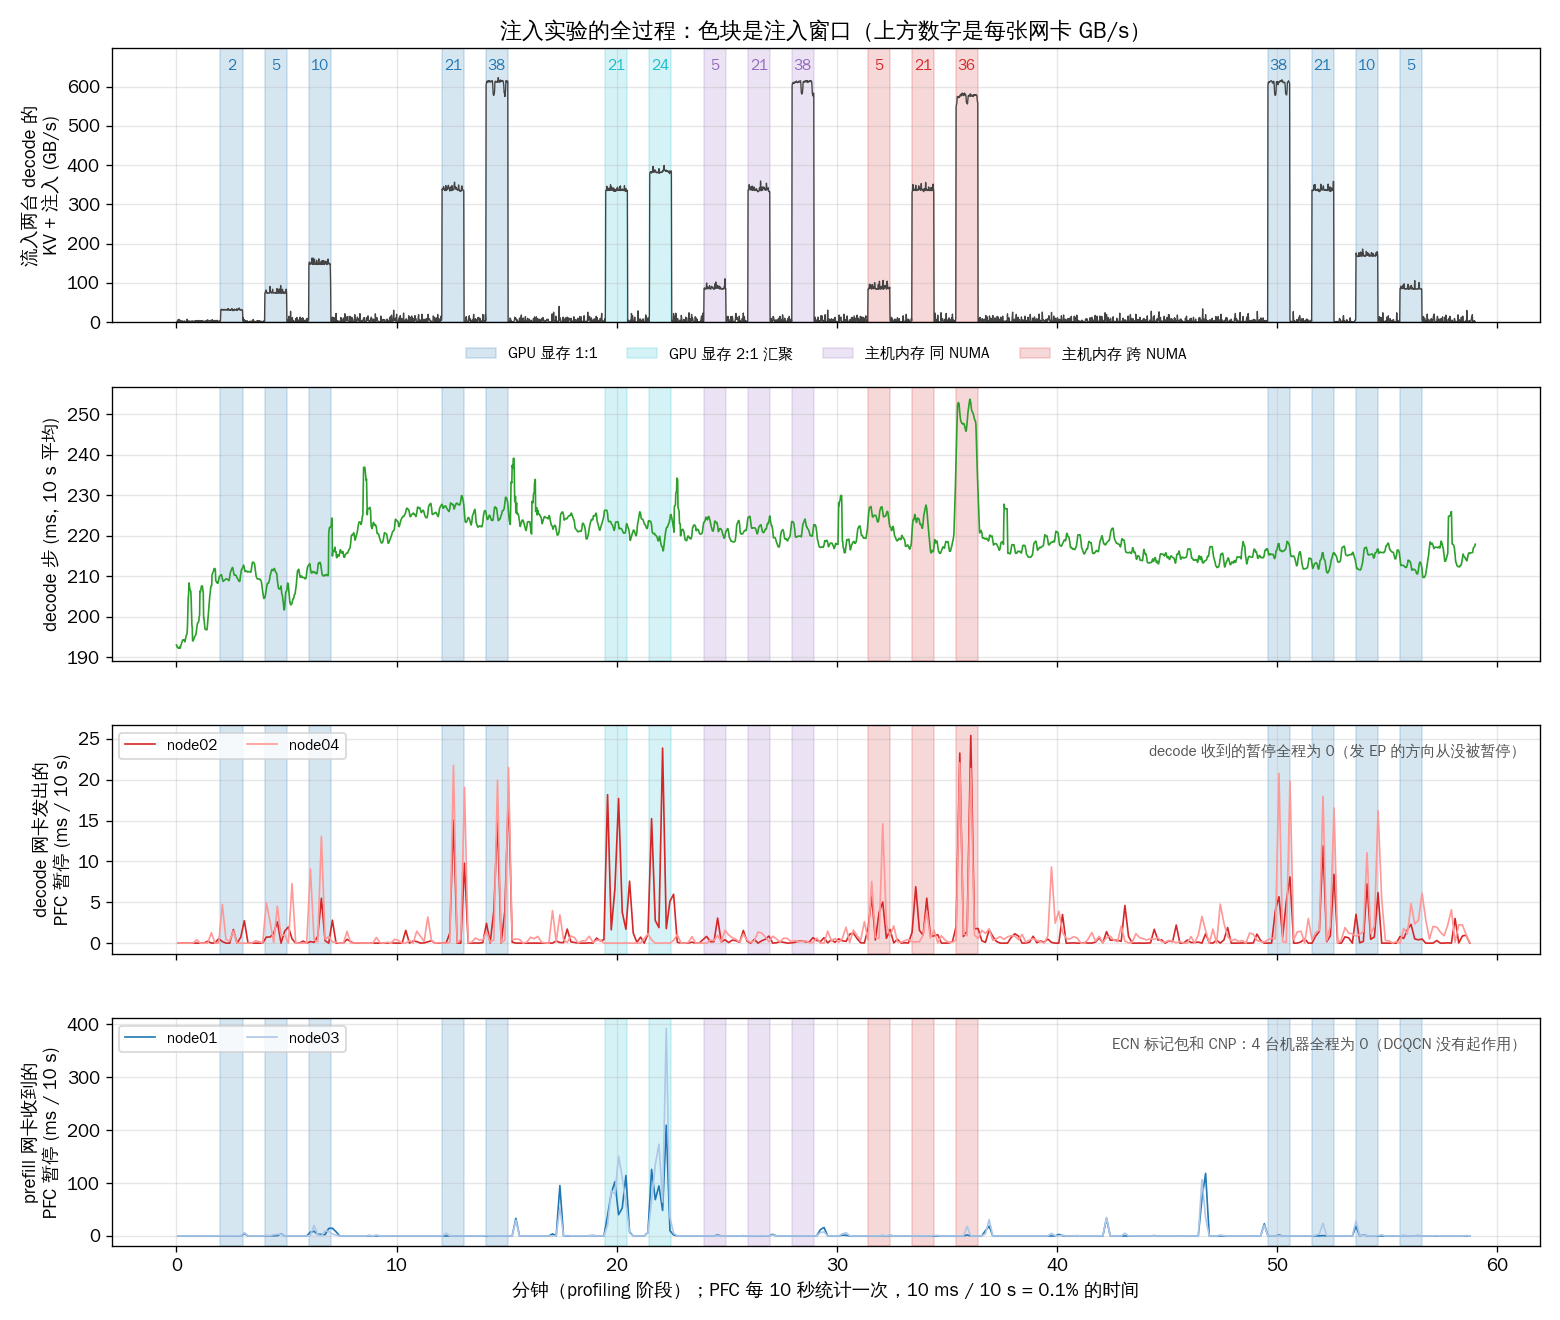
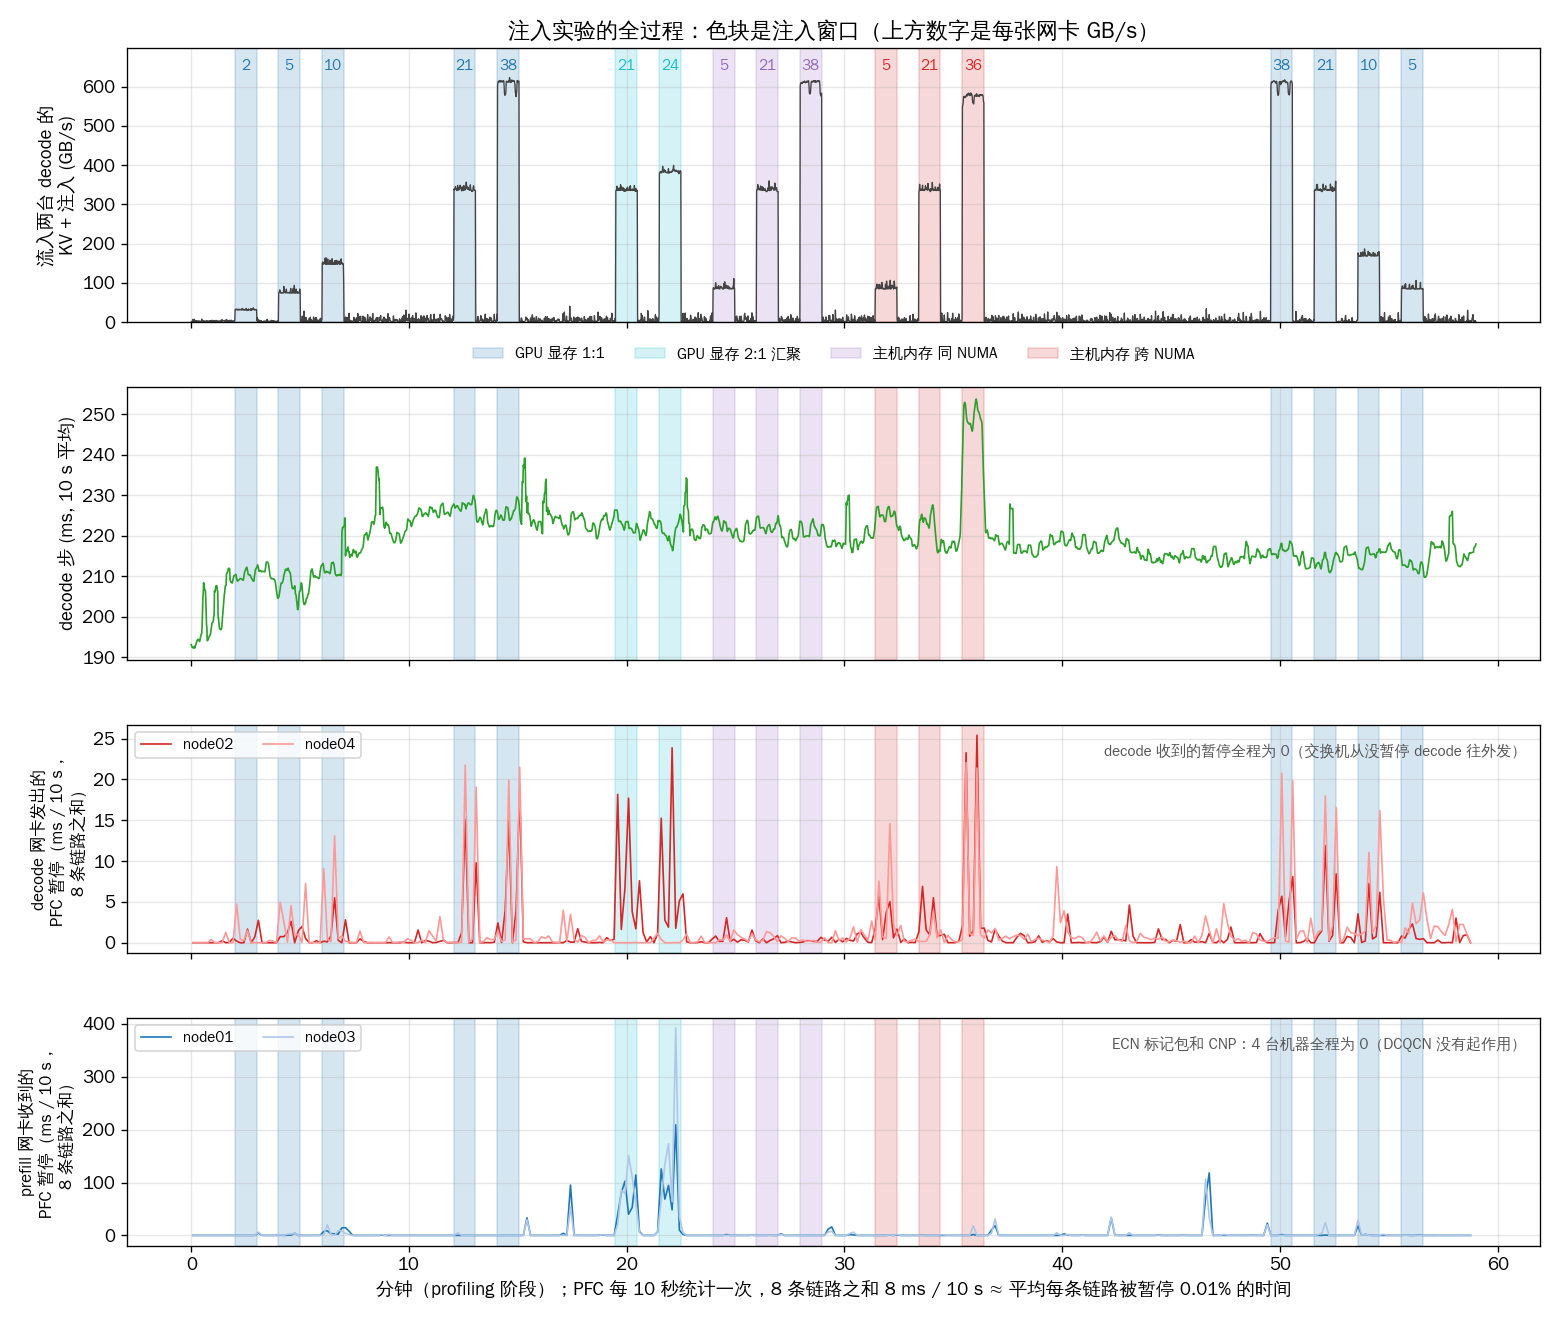
[Docs] K3.1 EP x KV write-up: RDMA link / PFC diagram, PFC as sums over 8 links, EP inbound waits on the receiver's pause, where the cross-NUMA slowdown sits

diff --git a/docs/epio/k31_agentx_ep_kv_umbp_zh.md b/docs/epio/k31_agentx_ep_kv_umbp_zh.md
@@ -17,7 +17,7 @@
 2. **我们的 PD 部署里没有"EP 节点往外发大流量"的情况**：KV 从 prefill 写进 decode，decode 节点只收 KV、不往外发；prefill 是单机 TP8 + DCP8，不跑跨机 EP。所以只剩接收侧的影响，加上 EP 只占 decode GPU 内核时间的 9%，在 decode 上几乎测不出来（第 3、4 节）：
    - 真实负载（1 小时）：一步执行期间流入的 KV 越多，这一步最多也只慢 0.3%。
    - 主动往两台 decode 的 GPU 显存写 KV 形状的流量，每张网卡 38 GB/s、每一次 EP 都和它撞上：decode 每一步平均慢 1.3%（单个窗口的噪声是 ±2%）。按单测里接收侧单次 EP 慢 4%–11% 折算，预期是 0.3%–0.9%，量级一致。
-3. **写 host 内存、而且跨 NUMA 最重**：端到端注入时 decode 每一步慢 14%（同 NUMA 时不到 1%）；单测里 IO 在两台 EP 节点之间跨 NUMA 写 host 内存，dispatch 平均慢 121%。这不是 PFC 或 DCQCN 造成的：写 GPU 显存时 decode 网卡发出的 PFC 和跨 NUMA 差不多，decode 却不慢；这套网络上 ECN / CNP 全程为 0，DCQCN 没有起作用（第 4 节）。
+3. **写 host 内存、而且跨 NUMA 最重**：端到端注入时 decode 每一步慢 14%（同 NUMA 时不到 1%）；单测里 IO 在两台 EP 节点之间跨 NUMA 写 host 内存，dispatch 平均慢 121%。这不是 PFC 或 DCQCN 造成的：写 GPU 显存时 decode 网卡发出的 PFC 和跨 NUMA 差不多，decode 却不慢，PFC 摊到每步只有约 0.03 ms；这套网络上 ECN / CNP 全程为 0，DCQCN 没有起作用。多出来的时间几乎都在 GPU 执行目标模型前向的时候；最可能是网卡往另一个 NUMA 写数据变慢，同一张网卡上的 EP 跟着慢，但按单测的幅度 EP 只能解释一部分，剩下的没有定位（第 4 节）。
 4. **全部放进有损的 TC 0** 时，KV 突发会丢包，EP 也跟着重传（第 8 节）；无损的 TC 104 下 EP 没有重传。
 5. **UMBP** 在这个部署里是 prefill 本机的 DRAM 缓存，读写不经过网卡，和 EP 碰不到（第 7 节）。
 
@@ -108,7 +108,7 @@
 | KV 流入（100 ms）p90 / p99 / 最大 | 2.6 / 56 / 243 GB/s | 4.6 / 38 / 157 GB/s |
 | 时间占比：KV > 1 / 10 / 40 / 100 GB/s | 6.1% / 2.7% / 1.27% / 0.75% | 6.2% / 2.5% / 1.28% / 0.58% |
 | EP 流入均值，100 ms p99 / 最大 | 2.37，3.18 / 3.58 GB/s | 2.38，3.18 / 3.63 GB/s |
-| 网卡发出的 PFC 暂停累计 | 141 ms | 61 ms |
+| 网卡发出的 PFC 暂停累计（8 条链路之和） | 141 ms | 61 ms |
 | 重传包 | 0 | 43 |
 
 | 一步期间的 KV（GB/s） | DP0 步数 | 比无 KV 的步慢 | DP1 步数 | 比无 KV 的步慢 |
@@ -133,6 +133,14 @@
 - **多快**：每次发 16 MB，以接近线速发完（约 0.4 ms），靠调两次发送之间的空闲时间控制平均速率。38 GB/s 档是连续不停地发，此时每一次 EP 都和注入撞上；低速档只有一部分 EP 撞上（20 GB/s 约 65%，5 GB/s 约 17%）。
 - **怎么比**：每个窗口打 60 s，和窗口结束后的 52 s 比；每个窗口里 decode 跑了 230–270 步。
 
+先看清楚注入实验里有哪些 RDMA 流量、PFC 暂停从哪里发出、会挡住谁：
+
+![注入实验里的 RDMA 链路和 PFC](img/fig9_rdma_links.png)
+
+**怎么看**：画的是一条 rail（8 条 rail 结构相同、互不相通）。红色是 prefill 写 decode 的流量（KV 和注入），蓝色是两台 decode 之间的 EP，橙色虚线是 PFC 暂停，箭头指向被暂停的一方。交换机里画出了发往 node02 和 node04 的出口：发往同一台 decode 的流量，不管来自 prefill 还是另一台 decode，都在同一个出口排队。node02 里画出了网卡写数据的三个去处：GPU 显存、本 NUMA 的内存、另一个 NUMA 的内存（要经过两颗 CPU 之间的互连）。
+
+**说明了什么**：decode 网卡发出的暂停（①）会让交换机停下所有发往这台 decode 的 TC 104 流量，其中也包括另一台 decode 发来的 EP；交换机缓冲满了再暂停发送方（②）；node04 发往 node02 的 EP 也在出口排队，但从没多到让交换机去暂停 node04（③ 全程为 0）。下面图 5 的第 3、4 个面板，分别就是 ① 和 ②。
+
 ![注入实验的全过程](img/fig5_injection_timeline.png)
 
 **怎么看**：色块是注入窗口，颜色代表写到哪；从上到下四个面板：
@@ -141,16 +149,16 @@
 3. decode 网卡发出的 PFC 暂停：decode 的接收端顶不住时，让交换机先别往它这里发；
 4. prefill 网卡收到的 PFC 暂停：交换机的缓冲也满了，把暂停转给发送方（prefill）。
 
-PFC 每 10 秒统计一次，单位是这 10 秒里被暂停的毫秒数（10 ms / 10 s = 0.1% 的时间）。这里的 PFC 都属于 TC 104（DSCP 26）这个无损类：网卡自己发出的暂停，计数器记在优先级 0 上；交换机发来的暂停帧同时带优先级 0 和 3 两个位，两列数值相同。
+PFC 每 10 秒统计一次，单位是这 10 秒里 8 条链路被暂停的毫秒数之和（8 ms / 10 s 相当于平均每条链路被暂停 0.01% 的时间）。这里的 PFC 都属于 TC 104（DSCP 26）这个无损类：网卡自己发出的暂停，计数器记在优先级 0 上；交换机发来的暂停帧同时带优先级 0 和 3 两个位，两列数值相同。
 
 **说明了什么**：
 - 曲线整体的起伏是 batch 在变：前 10 分钟两个 DP 组合计从约 80 个请求涨到约 180 个，步长从约 195 ms 升到约 225 ms；后半段 batch 约 115–145 个，步长约 212–220 ms。所以每个注入窗口只和紧挨着它的、窗口结束后的 52 s 比，并且扣掉 batch 的影响。
 - 大部分窗口里 decode 曲线没有跟着色块变化；唯一明显的抬升在第 35–36 分钟——"主机内存、跨 NUMA、36 GB/s"那个窗口（红色）。
 - **不只是跨 NUMA 触发 PFC**：写 GPU 显存 20–40 GB/s 的窗口里，decode 网卡每个 60 s 窗口发出 21–44 ms 的暂停，和跨 NUMA 写主机内存（7–55 ms）是一个量级；2:1 汇聚时被汇聚的 node02 发出 50 ms。反而是同 NUMA 写主机内存几乎不触发（1–5 ms）。
-- **PFC 多少和 decode 慢不慢对不上**：写 GPU 显存 38 GB/s 时 decode 网卡发出 21–44 ms 的暂停，decode 不慢；跨 NUMA 36 GB/s 时是 47–55 ms，decode 慢 14%。2:1 汇聚时交换机把两台 prefill 暂停了 400–870 ms（窗口时间的 0.7%–1.5%），decode 也不慢。decode 网卡发出的暂停，最多也只占窗口时间的 0.09%。
-- **EP 没有被 PFC 卡住**：decode 收到的暂停全程为 0，也就是 decode 往外发 EP 的方向从没被交换机暂停；两台 decode 之间的 EP 全程没有重传。
+- **PFC 多少和 decode 慢不慢对不上**：写 GPU 显存 38 GB/s 时 decode 网卡发出 21–44 ms 的暂停，decode 不慢；跨 NUMA 36 GB/s 时是 47–55 ms，decode 慢 14%。2:1 汇聚时交换机把两台 prefill 暂停了 400–870 ms（8 条链路之和，平均每条链路 0.08%–0.18% 的时间），decode 也不慢。decode 网卡发出的暂停，平均到每条链路最多只占窗口时间的 0.01%。
+- **PFC 会让发往 decode 的 EP 跟着等，但量很小**：node02 发出暂停时，交换机停下所有发往 node02 的 TC 104 流量，node04 → node02 方向的 EP 也在里面（链路图的 ①）；反过来，node04 的暂停也会挡住 node02 → node04 的 EP。跨 NUMA 36 GB/s 那一窗，node02 发出的暂停是 55 ms（8 条链路之和），平均每条链路约 6.9 ms，摊到这一窗的 240 个 decode 步，每步约 0.03 ms，比 decode 每步多出来的约 30 ms 小三个数量级；而且写 GPU 显存 38 GB/s 时暂停一样多，decode 却不慢。node04 自己从没收到暂停（③）：它发往 node02 的 EP 也在交换机里排队，但排队量从没到交换机反压它的阈值。两台 decode 之间的 EP 全程没有重传。
 - **DCQCN 没有起作用**：4 台机器的 ECN 标记包（`rx_rdma_ecn_pkts`）和 CNP（`rx/tx_rdma_cnp_pkts`）全程为 0，交换机不打 ECN 标记，这套网络的无损类只靠 PFC。
-- 所以跨 NUMA 的 14% 不是 PFC 或 DCQCN 造成的，更可能是网卡往另一个 NUMA 的内存写数据（跨 socket）时变慢、同一张网卡上的 EP 跟着等；这次没有进一步区分。
+- 所以跨 NUMA 的 14% 不是 PFC 或 DCQCN 造成的。原因的分析见本节后面的"跨 NUMA 时 decode 为什么变慢"。
 - 窗口之外也有 PFC（比如第 18、47 分钟 prefill 被暂停了约 100 ms / 10 s）：两台 prefill 的自然 KV 正好同时写同一台 decode，相当于短暂的 2:1 汇聚。
 
 ![注入速率 vs decode 变慢](img/fig4_injection.png)
@@ -163,6 +171,24 @@ PFC 每 10 秒统计一次，单位是这 10 秒里被暂停的毫秒数（10 ms
 - 写主机内存、跨 NUMA（红色）：5–21 GB/s 慢 3%，36 GB/s 慢 14%。多出来的时间里有多少是 EP 变慢造成的，端到端分不清。
 
 客户端看到的 ITL 也一样：写 GPU 显存的各档，ITL p90 和不注入时相比在 −3 到 +4 ms 之间，有升有降；跨 NUMA 36 GB/s 时 ITL p90 从 72 ms 升到 84 ms（明细见下面折叠的表）。
+
+### 跨 NUMA 时 decode 为什么变慢
+
+不是 PFC（摊到每步约 0.03 ms），也不是 DCQCN（没起作用）。把 decode 的每一步拆开看（探针数据，跨 NUMA 36 GB/s 窗口和窗口结束后的 52 s 比，中位数；node02 如下，node04 几乎一样）：
+
+| 每一步 | 窗口内 | 窗口后 | 差 |
+|---|---|---|---|
+| 整步（GPU 时间） | 248.7 ms | 218.7 ms | +30.0 ms |
+| 其中 verify 前向（目标模型，EP 在这里面） | 240.3 ms | 211.6 ms | +28.7 ms |
+| 其中 draft 和其余部分 | 8.4 ms | 7.0 ms | +1.4 ms |
+| CPU 下发这一步 | 4.4 ms | 3.8 ms | +0.6 ms |
+| batch（请求数） | 78.5 | 78 | – |
+
+- **多出来的时间几乎都在 GPU 执行目标模型前向的时候**，不是 CPU 调度慢了，也不是 batch 变了。作为对照，写 GPU 显存和同 NUMA 主机内存 38 GB/s 的窗口里，verify 前向只多 2–3 ms（那几窗的 batch 也比窗口后大一些）。
+- **网卡往另一个 NUMA 写数据的路径接近上限**：跨 NUMA 那一窗每张网卡只跑到 35.7 GB/s，而写 GPU 显存和同 NUMA 主机内存都能跑到 37.7 GB/s。
+- **单测里同样的条件会拖慢 EP**（第 5 节）：往 EP 节点另一个 NUMA 的内存写数据时，EP 比写同 NUMA 时明显更慢（dispatch +121% 对 +55%，combine +83% 对 +34%）。
+- **最可能的过程**：网卡往另一个 NUMA 写数据要经过两颗 CPU 之间的互连，写得慢，数据在网卡里排队；同一张网卡上收发的 EP 跟着等。这种排队大部分没到触发 PFC 的程度，所以 PFC 计数反映不出来。
+- **EP 可能解释不了全部**：EP 每步约 18 ms，按单测的幅度，EP 变慢大约让每步多 10–17 ms，而实测多了 29 ms。剩下的部分是不是还有别的内核也变慢，这次没有 profiler 数据，没有定位；要确认，需要在跨 NUMA 注入时抓一次 torch profiler，看哪些内核变长。
 
 <details>
 <summary>每个注入窗口的明细</summary>
@@ -194,7 +220,7 @@ PFC 每 10 秒统计一次，单位是这 10 秒里被暂停的毫秒数（10 ms
 
 每个窗口的 PFC（窗口 60 s；括号里是窗口结束后 52 s 的对比时段）：
 
-| 注入 | 每网卡 GB/s | decode 每步变慢（DP0 / DP1） | decode 网卡发出的暂停 node02 / node04（ms） | prefill 网卡收到的暂停 node01 / node03（ms） |
+| 注入 | 每网卡 GB/s | decode 每步变慢（DP0 / DP1） | decode 网卡发出的暂停 node02 / node04（ms，8 条链路之和） | prefill 网卡收到的暂停 node01 / node03（ms，8 条链路之和） |
 |---|---|---|---|---|
 | GPU 显存 1:1 | 2.1 | +1.0% / −0.9% | 3 / 7（1 / 0） | 0 / 0（2 / 3） |
 | GPU 显存 1:1 | 5.2 | −0.4% / −0.1% | 7 / 14（1 / 7） | 6 / 10（0 / 0） |
@@ -277,7 +303,7 @@ PFC 每 10 秒统计一次，单位是这 10 秒里被暂停的毫秒数（10 ms
 
 **说明了什么**：
 - **影响几乎都来自发送侧**。只在发送侧相遇时 dispatch 慢 43%–52%、combine 慢 22%–33%，和"两台 EP 节点之间"差不多（1 对卡：发送侧 +43%，两台之间 +46%）。只在接收侧相遇时 dispatch 只慢 4%–9%、combine 慢 4%–11%；接收端网卡打到接近线速（每张约 41–45 GB/s）也是这个量级。
-- **交换机上的优先级管不了发送侧**。IO 放到 TC 0，发送侧 dispatch 只从 +52% 降到 +43%。而且这些场景里 PFC 暂停很少（最多是发送端在一个约 100 秒的场景里共被暂停 16–62 ms，不到 0.06% 的时间），EP 也没有重传。所以 EP 主要是在发送端网卡上排在 IO 后面，而不是在交换机里排队或被暂停。具体是网卡的发送调度、还是网卡从 GPU 显存读数据的 PCIe 带宽，这次没有区分。
+- **交换机上的优先级管不了发送侧**。IO 放到 TC 0，发送侧 dispatch 只从 +52% 降到 +43%。而且这些场景里 PFC 暂停很少（单条链路最多被暂停约 0.02% 的时间），EP 也没有重传。所以 EP 主要是在发送端网卡上排在 IO 后面，而不是在交换机里排队或被暂停。具体是网卡的发送调度、还是网卡从 GPU 显存读数据的 PCIe 带宽，这次没有区分。
 - **两边都相遇、而且双向时最重**：KV 形状的写在两台 EP 节点之间双向跑（每台既发又收），dispatch 慢 91%–98%、combine 慢 37%–52%。
 - **写 host 内存跨 NUMA 最重**：IO 在两台 EP 节点之间跨 NUMA 写 host 内存，dispatch 慢 121%、combine 慢 83%；同 NUMA 时（+55%）和写 GPU 显存（+54%）差不多。这和端到端注入里"跨 NUMA 最重"一致。
 - mori 默认形状（每卡 128 token）下规律相同，幅度更大：只在接收侧 dispatch 慢 23%–33%，只在发送侧慢 102%–108%（明细见本节末）。
@@ -345,7 +371,7 @@ PFC 每 10 秒统计一次，单位是这 10 秒里被暂停的毫秒数（10 ms
 
 mori 默认形状（每卡 128 token）：不跑 IO 时 dispatch 平均 92–94 µs、combine 93–94 µs；只在接收侧 T1 / T5 dispatch +23% / +33%、combine +21% / +3%；只在发送侧 T2 / T6 dispatch +102% / +108%、combine +56% / +32%；两台之间 U4（8 对卡，TC 104）dispatch +115%、combine +54%，K2（KV 形状双向）+131% / +82%。
 
-网卡计数：IO 在 TC 104 的场景里，EP 和 IO 都没有重传；PFC 只在 U1、T6、U4 里出现，是发送端 node06 收到交换机的暂停，整个场景（约 100–110 秒）共 16 ms、16 ms、62 ms。IO 在 TC 0 的场景里，发送端每个场景重传 2 万–61 万个包（有损类里 IO 自己被丢的包），ACK 超时最多 6 次。
+网卡计数：IO 在 TC 104 的场景里，EP 和 IO 都没有重传；PFC 只在 U1、T6、U4 里出现，是发送端 node06 收到交换机的暂停，整个场景（约 100–110 秒）8 条链路之和分别是 16 ms、16 ms、62 ms（U1、T6 的 IO 只走 rail 0，暂停都在这一条链路上，约占 0.016% 的时间）。IO 在 TC 0 的场景里，发送端每个场景重传 2 万–61 万个包（有损类里 IO 自己被丢的包），ACK 超时最多 6 次。
 
 </details>
 
